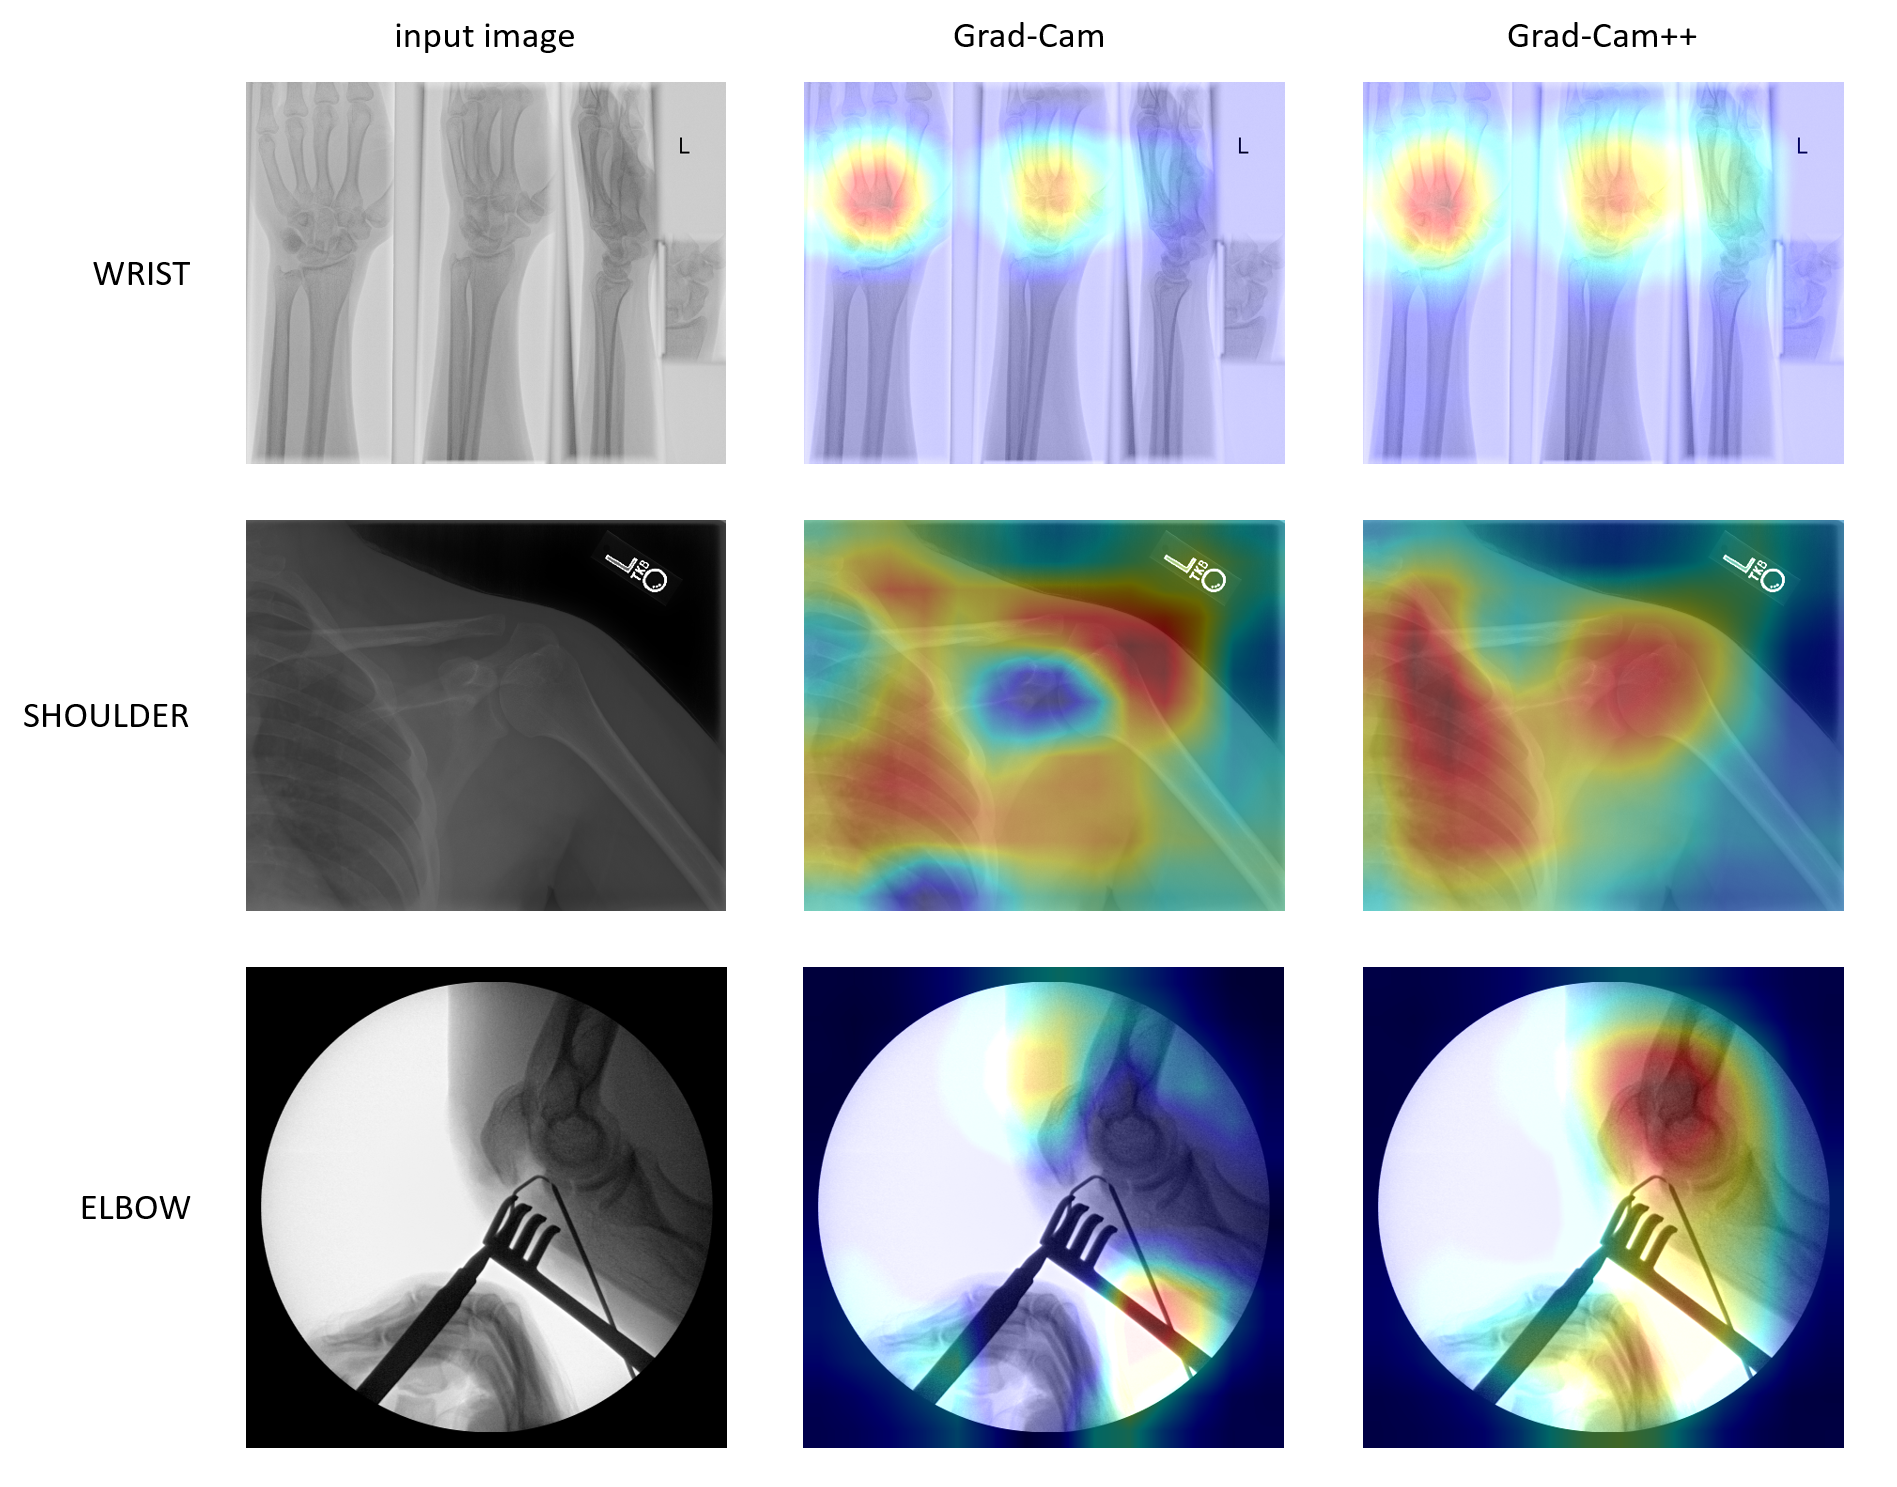
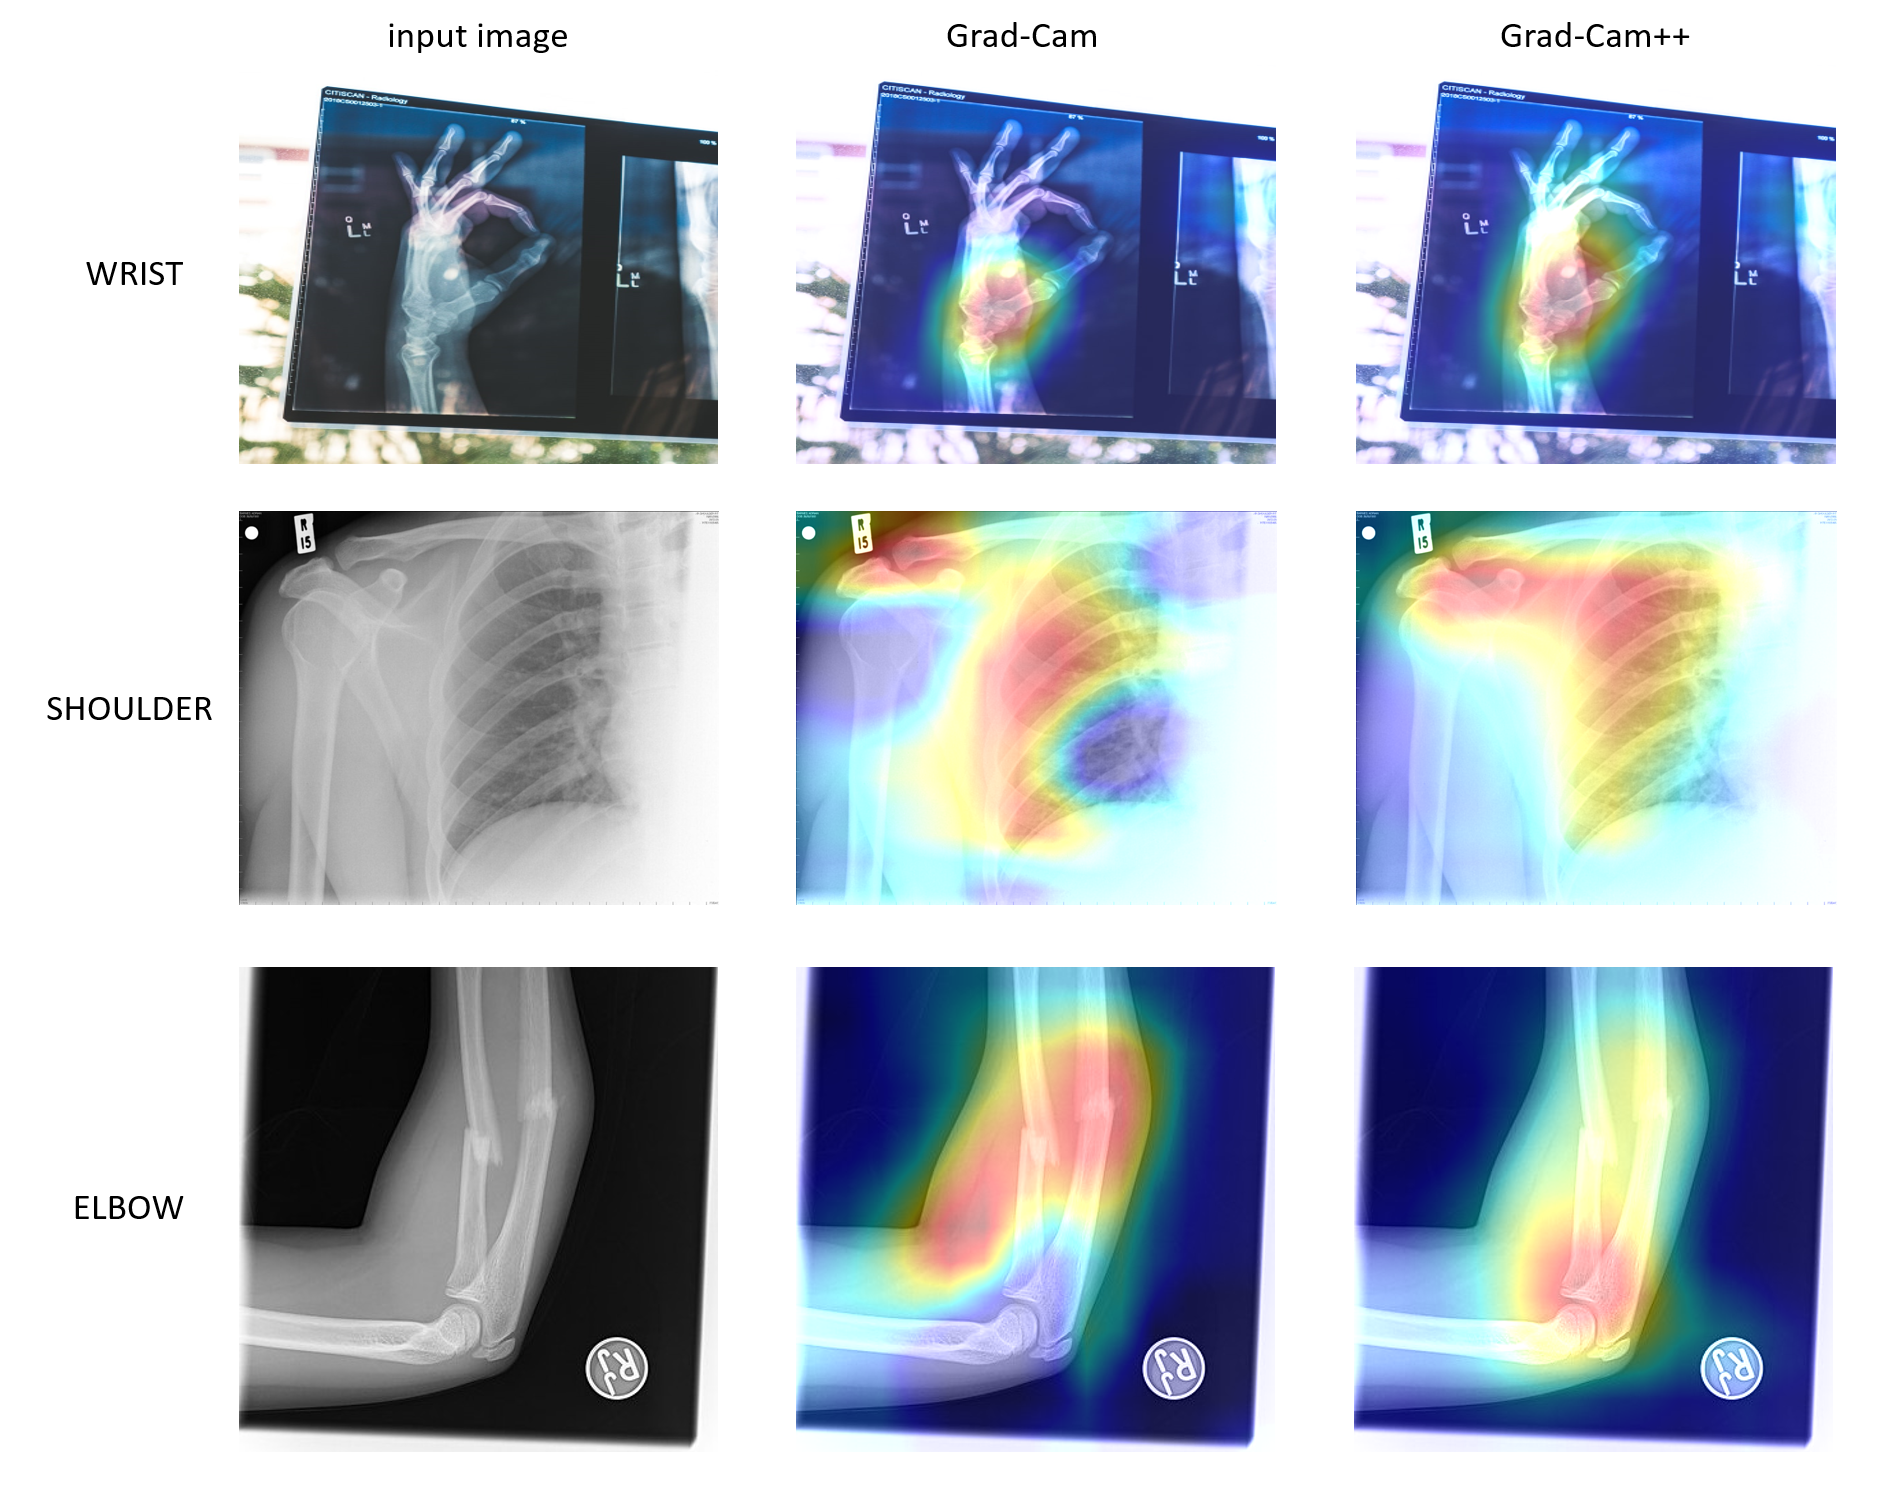
add results and images

diff --git a/example.py b/example.py
@@ -7,7 +7,7 @@ model = vgg16_mura_model('model_weights/VGG16_MURA.h5')
 model.summary()
 
 # %%
-img_path = 'images/patient01347_study1_negative_image2.png'
+img_path = 'images/4320878114_30a836d428_z.jpg'
 img = preprocess_image(img_path)
 
 # %% result of grad cam

diff --git a/README.md b/README.md
@@ -1,5 +1,5 @@
 # tf.keras-gradcamplusplus
-Grad-Cam and Grad-Cam++ implemented by tf.keras 2.X.
+Grad-Cam and Grad-Cam++ implemented by tf.keras 2.X (tensorflow 2.X).
 
 Grad-CAM: Visual Explanations from Deep Networks via Gradient-based Localization by Ramprasaath R. Selvaraju, Michael Cogswell, Abhishek Das, Ramakrishna Vedantam, Devi Parikh, Dhruv Batra (https://arxiv.org/abs/1610.02391)
 
@@ -13,7 +13,7 @@ It resolve the problem of using eager mode in tf.keras, and almost follow the fo
 # Results
 ![result](https://drive.google.com/uc?id=1WARczhMgrA_ObBmHpReWsetAM-sSD5Lm)
 
-For more results, check the images in [results folder](https://github.com/samson6460/tf.keras-gradcamplusplus/tree/master/results).
+For more results, check the images in [results](https://github.com/samson6460/tf.keras-gradcamplusplus/tree/master/results) folder.
 
 # Usage
 1. Execute following command in terminal:
@@ -22,10 +22,20 @@ git clone https://github.com/samson6460/tf.keras-gradcamplusplus.git
 cd tf.keras-gradcamplusplus
 ```
 2. Create a new python file and import `utils` and `gradcam`.
-3. Pass your model and image array to `grad_cam` or `grad_cam_plus` func, and it will return a heatmap.
-4. Pass image path and heatmap to `show_imgwithheat` func, and it will show a superimposed image.
+3. Pass your model and image array to `grad_cam()` or `grad_cam_plus()` func, and it will return a heatmap.
+4. Pass image path and heatmap to `show_imgwithheat()` func, and it will show a superimposed image.
 
 # Example
 Here's an example model that can classify bone X-rays into three categories: wrist, shoulder and elbow.
-The dataset is from MURA (musculoskeletal radiographs):
-run 
+
+The model was pretrained by imagenet and finetuned by **MURA** dataset.
+
+Get the MURA(musculoskeletal radiographs) dataset from https://stanfordmlgroup.github.io/competitions/mura/.
+
+Or test the model with no copyright images in [images](https://github.com/samson6460/tf.keras-gradcamplusplus/tree/master/images) folder.
+
+Images source:
+http://pixabay.com/
+https://visualhunt.com/
+
+Run example.py.
